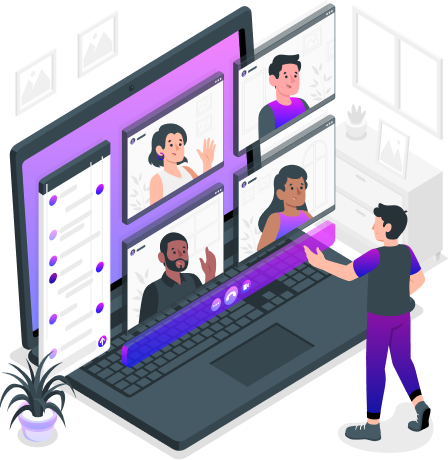
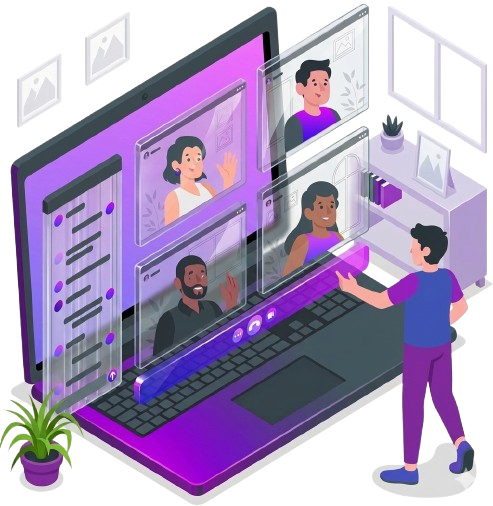
change image of lending page , add shaprator in cards , make them responsive

diff --git a/src/shared/components/LeftRightCards.tsx b/src/shared/components/LeftRightCards.tsx
@@ -4,14 +4,34 @@ import shareImg from "@/assets/card2.png";
 import messageImg from "@/assets/card3.png";
 import meetingImg from "@/assets/card4.png";
 import videoCall from "@/assets/card1.png";
+import { Separator } from "@/components/ui/separator";
 
 const LeftRightCards = () => {
   return (
-    <div className="flex flex-col gap-10 w-full">
-      <LeftCard title="Meeting" img={meetingImg} description="Schedule a meeting without lag with no of users" />
-      <RightCard title="Chat" img={messageImg} description="Sand unlimited messages" />
-      <LeftCard title="Share files" img={shareImg} description="Share images, videos , links , pdf etc." />
-      <RightCard title="Video call" img={videoCall} description="Do One on one video call " />
+    <div className="flex flex-col gap-10 w-full bg-purple-50">
+      <LeftCard
+        title="Meeting"
+        img={meetingImg}
+        description="Create smooth and secure meetings with crystal-clear audio, video, and real-time collaboration for teams of any size."
+      />
+      <Separator className=""/>
+      <RightCard
+        title="Chat"
+        img={messageImg}
+        description="Stay connected with instant messaging, real-time conversations, and seamless communication without limits."
+      />
+      <Separator />
+      <LeftCard
+        title="Share files"
+        img={shareImg}
+        description="Easily share images, videos, PDFs, links, and important documents securely with your team in seconds."
+      />
+      <Separator />
+      <RightCard
+        title="Video call"
+        img={videoCall}
+        description="Experience high-quality one-on-one video calls with low latency and smooth communication from anywhere."
+      />
     </div>
   );
 };

diff --git a/src/shared/components/RightCard.tsx b/src/shared/components/RightCard.tsx
@@ -3,7 +3,7 @@ import Tilt from "react-parallax-tilt";
 
 const RightCard = ({ img, title, description }: CardProp) => {
   return (
-    <div className="grid grid-cols-1 md:grid-cols-2 ">
+    <div className="grid grid-cols-1 md:grid-cols-2 gap-5">
       <div className="flex items-center justify-center overflow-hidden rounded-lg">
         <Tilt tiltMaxAngleX={25} tiltMaxAngleY={25} perspective={500}>
           <img
@@ -13,7 +13,7 @@ const RightCard = ({ img, title, description }: CardProp) => {
           />
         </Tilt>
       </div>
-      <div className="flex flex-col items-center justify-center">
+      <div className="flex flex-col px-10 md:px-30 justify-center">
         <h2 className="font-bold text-lg gradient-text-primary">{title}</h2>
         <p>{description}</p>
       </div>

diff --git a/src/shared/components/LeftCard.tsx b/src/shared/components/LeftCard.tsx
@@ -7,10 +7,10 @@ export interface CardProp {
 
 const LeftCard = ({ img, title, description }: CardProp) => {
   return (
-    <div className="grid grid-cols-1 md:grid-cols-2">
-      <div className="flex flex-col items-center justify-center order-2 md:order-1">
+    <div className="grid grid-cols-1 md:grid-cols-2 gap-5">
+      <div className="flex flex-col px-10 md:px-30 justify-center order-2 md:order-1">
         <h2 className="font-bold text-lg gradient-text-primary">{title}</h2>
-        <p>{description}</p>
+        <p className="text-gray-500">{description}</p>
       </div>
       <div className="flex items-center justify-center order-1 md:order-2">
         <Tilt tiltMaxAngleX={25} tiltMaxAngleY={25} perspective={500}>

diff --git a/src/app/Layout.tsx b/src/app/Layout.tsx
@@ -2,7 +2,7 @@ import { Outlet } from "react-router-dom";
 import Navbar from "@/shared/components/Navbar";
 const Layout = () => {
   return (
-    <div className="flex min-h-screen flex-col bg-purple-50">
+    <div className="flex min-h-screen flex-col bg-background">
       <Navbar />
       <main className="flex-1">
         <Outlet />
